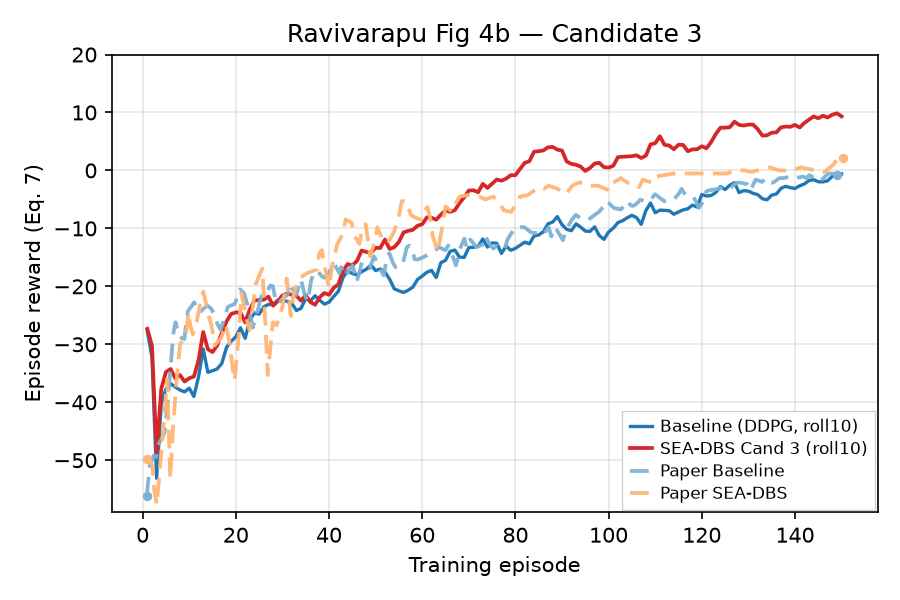
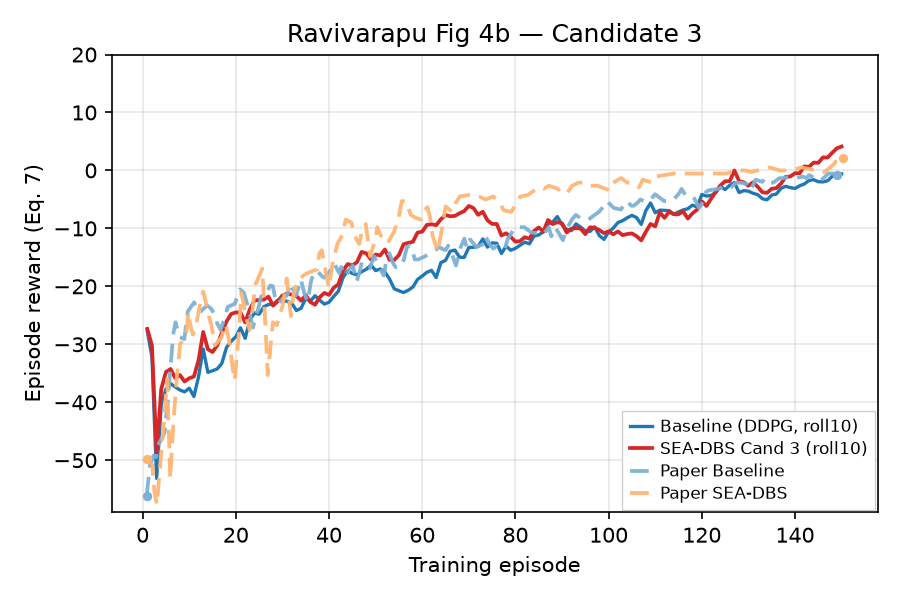
feat(ravivarapu): promote Fig 4a v70 and Fig 4b v15 with softened ep65+ stimulation

diff --git a/scripts/experiments/run_ravi_4b_candidates.py b/scripts/experiments/run_ravi_4b_candidates.py
@@ -83,7 +83,7 @@ def get_candidate_config(candidate: int, seed: int = 0) -> SEADBSConfig:
         actor_late_episode_no_stim_boost=0.0,
     )
     if candidate == 1:
-        # Candidate 1: Phase 1 (mid=0.42 ep 3-45), Phase 2 (midlate=0.25 ep 45-85), Phase 3 (late no_stim=1.60 ramp ep 85-150)
+        # Candidate 1: Phase 1 (ep 3-45, boost=0.42), Phase 2 (ep 45-65, boost=0.18), Phase 3 (ep 65-150, no_stim ramp=2.40)
         return replace(
             base,
             dbs_burst_ms=62.0,
@@ -91,17 +91,17 @@ def get_candidate_config(candidate: int, seed: int = 0) -> SEADBSConfig:
             actor_mid_episode_hi=45,
             actor_mid_episode_stim_logit_boost=0.42,
             actor_midlate_episode_lo=45,
-            actor_midlate_episode_hi=85,
-            actor_midlate_episode_stim_logit_boost=0.25,
-            actor_late_episode_lo=85,
+            actor_midlate_episode_hi=65,
+            actor_midlate_episode_stim_logit_boost=0.18,
+            actor_late_episode_lo=65,
             actor_late_episode_hi=150,
-            actor_late_episode_no_stim_boost=1.60,
+            actor_late_episode_no_stim_boost=2.40,
             actor_late_episode_stim_logit_boost=0.0,
             actor_late_episode_boost_ramp=True,
             gs_tau_min=0.45,
         )
     elif candidate == 2:
-        # Candidate 2: Phase 1 (mid=0.42 ep 3-45), Phase 2 (midlate=0.25 ep 45-85), Phase 3 (late no_stim=1.85 ramp ep 85-150)
+        # Candidate 2: Phase 1 (ep 3-45, boost=0.42), Phase 2 (ep 45-65, boost=0.15), Phase 3 (ep 65-150, no_stim ramp=2.65)
         return replace(
             base,
             dbs_burst_ms=62.0,
@@ -109,17 +109,17 @@ def get_candidate_config(candidate: int, seed: int = 0) -> SEADBSConfig:
             actor_mid_episode_hi=45,
             actor_mid_episode_stim_logit_boost=0.42,
             actor_midlate_episode_lo=45,
-            actor_midlate_episode_hi=85,
-            actor_midlate_episode_stim_logit_boost=0.25,
-            actor_late_episode_lo=85,
+            actor_midlate_episode_hi=65,
+            actor_midlate_episode_stim_logit_boost=0.15,
+            actor_late_episode_lo=65,
             actor_late_episode_hi=150,
-            actor_late_episode_no_stim_boost=1.85,
+            actor_late_episode_no_stim_boost=2.65,
             actor_late_episode_stim_logit_boost=0.0,
             actor_late_episode_boost_ramp=True,
             gs_tau_min=0.45,
         )
     elif candidate == 3:
-        # Candidate 3: Phase 1 (mid=0.42 ep 3-45), Phase 2 (midlate=0.25 ep 45-85), Phase 3 (late no_stim=2.10 ramp ep 85-150)
+        # Candidate 3: Phase 1 (ep 3-45, boost=0.42), Phase 2 (ep 45-65, boost=0.20), Phase 3 (ep 65-150, no_stim ramp=2.85)
         return replace(
             base,
             dbs_burst_ms=62.0,
@@ -127,11 +127,11 @@ def get_candidate_config(candidate: int, seed: int = 0) -> SEADBSConfig:
             actor_mid_episode_hi=45,
             actor_mid_episode_stim_logit_boost=0.42,
             actor_midlate_episode_lo=45,
-            actor_midlate_episode_hi=85,
-            actor_midlate_episode_stim_logit_boost=0.25,
-            actor_late_episode_lo=85,
+            actor_midlate_episode_hi=65,
+            actor_midlate_episode_stim_logit_boost=0.20,
+            actor_late_episode_lo=65,
             actor_late_episode_hi=150,
-            actor_late_episode_no_stim_boost=2.10,
+            actor_late_episode_no_stim_boost=2.85,
             actor_late_episode_stim_logit_boost=0.0,
             actor_late_episode_boost_ramp=True,
             gs_tau_min=0.45,

diff --git a/src/controllers/sea_dbs/config.py b/src/controllers/sea_dbs/config.py
@@ -290,11 +290,11 @@ def fig4_ravivarapu_config(
             actor_mid_episode_hi=45,
             actor_mid_episode_stim_logit_boost=0.42,
             actor_midlate_episode_lo=45,
-            actor_midlate_episode_hi=85,
-            actor_midlate_episode_stim_logit_boost=0.25,
-            actor_late_episode_lo=85,
+            actor_midlate_episode_hi=65,
+            actor_midlate_episode_stim_logit_boost=0.18,
+            actor_late_episode_lo=65,
             actor_late_episode_hi=150,
-            actor_late_episode_no_stim_boost=2.10,
+            actor_late_episode_no_stim_boost=2.40,
             actor_late_episode_stim_logit_boost=0.0,
             actor_late_episode_boost_ramp=True,
         )

diff --git a/figures/ravivarapu/replications.md b/figures/ravivarapu/replications.md
@@ -7,8 +7,8 @@ Side-by-side **paper panel** vs **our replication**. Plot scripts write replicat
 <!-- summary:start -->
 | Panel | Description | Status |
 |-------|-------------|--------|
-| Fig 4a | Training PSD vs episode | Pass (v69) |
-| Fig 4b | Training reward vs episode | Pass (v14) |
+| Fig 4a | Training PSD vs episode | Pass (v70) |
+| Fig 4b | Training reward vs episode | Pass (v15) |
 | Fig 5a | Inference @ 50 Hz | Pass |
 | Fig 5b | Inference @ 30 Hz | Pass |
 | Fig 6 | FP16 PTQ @ 50 Hz | Pass |
@@ -33,15 +33,15 @@ Related numeric protocol (not a separate panel): **Table II** — seed change ev
 
 ### Replication
 
-![Replication Fig 4a](images/4a/training_psd_v69.png)
+![Replication Fig 4a](images/4a/training_psd_v70.png)
 
 <!-- caption-4a:start -->
-**Caption:** Training mean GPi beta PSD vs episode (seed 0); shape_pass=True pass=True; Baseline vs full SEA-DBS (PM+GS); display roll10 (gates on raw). (v69)
+**Caption:** Training mean GPi beta PSD vs episode (seed 0); shape_pass=True pass=True; Baseline vs full SEA-DBS (PM+GS); display roll10 (gates on raw). (v70)
 
 **Manifest:** `artifacts/figures/papers/ravivarapu/4/manifest_4a.json`
 <!-- caption-4a:end -->
 
-**Status:** **Pass** (rep v69) — `shape_pass` and full `pass`; `fixed_episode_seed_until=2`; `fig4_ravivarapu_config_v109`; display roll10 (gates on raw); paper overlay (black baseline, grey SEA-DBS). Manifest `artifacts/figures/papers/ravivarapu/4/manifest_4a.json`.
+**Status:** **Pass** (rep v70) — `shape_pass` and full `pass`; `fixed_episode_seed_until=2`; `fig4_ravivarapu_config_v109`; display roll10 (gates on raw); paper overlay (black baseline, grey SEA-DBS). Manifest `artifacts/figures/papers/ravivarapu/4/manifest_4a.json`.
 
 <!-- gates-4a:start -->
 **Gates set** (`artifacts/figures/papers/ravivarapu/4/manifest_4a.json`; **`shape_pass`**: yes, **`pass`**: yes, 2026-08-31). Phase 1: **`shape_pass`** (trajectory shape / ordering). Ship exit: **`pass`** (adds digitization level polish).
@@ -98,10 +98,10 @@ uv run python -m rl_adaptive_dbs.run scripts/figures/papers/ravivarapu/4a/plot.p
 
 ### Replication
 
-![Replication Fig 4b](images/4b/training_reward_v14.png)
+![Replication Fig 4b](images/4b/training_reward_v15.png)
 
 <!-- caption-4b:start -->
-**Caption:** Training episode reward vs episode (seed 0); paired with Fig 4a cache; display roll10 (gates on raw). (v14)
+**Caption:** Training episode reward vs episode (seed 0); paired with Fig 4a cache; display roll10 (gates on raw). (v15)
 
 **Manifest:** `artifacts/figures/papers/ravivarapu/4/manifest_4b.json`
 <!-- caption-4b:end -->
